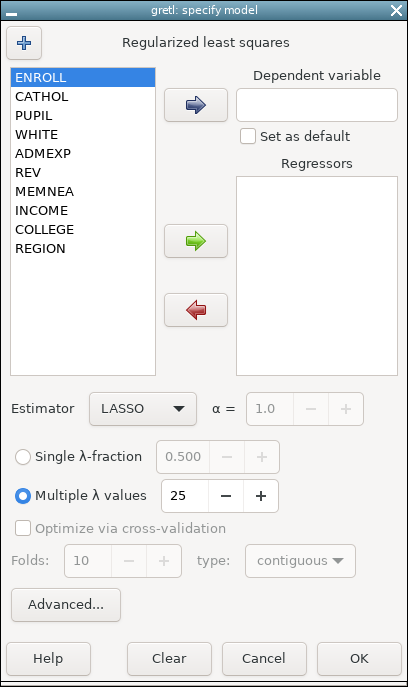
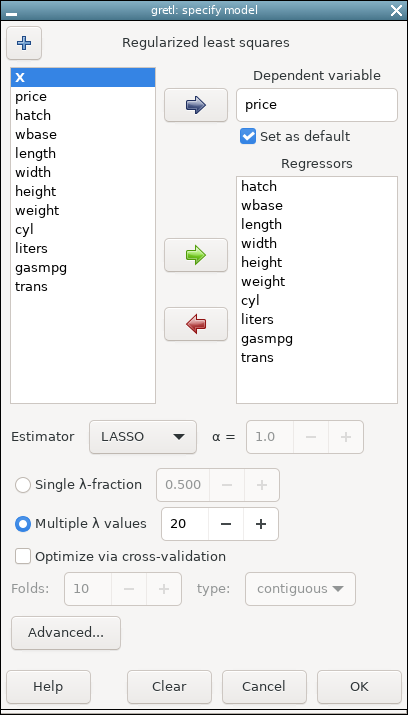
updates to regls doc

diff --git a/addons/regls/doc/regls.tex b/addons/regls/doc/regls.tex
@@ -654,60 +654,61 @@ validation runs.
 
 You can access \texttt{regls} in the gretl GUI via the menu item
 \textsf{Model/Other linear models/Regularized least squares}. This
-brings up the dialog box shown in Figure~\ref{fig:regls-gui}. Multiple
-$\lambda$ values and cross validation are supported as shown. Clicking
-the \textsf{Advanced} button gives access to most of the additional
-options discussed above (e.g.\ choice of algorithm, seed for
-randomized cross-validation folds). 
+brings up the dialog box shown on the left in
+Figure~\ref{fig:regls-combo}. Multiple $\lambda$ values and cross
+validation are supported as shown. Clicking the \textsf{Advanced}
+button gives access to most of the additional options discussed above
+(e.g.\ choice of algorithm, seed for randomized cross-validation
+folds).
+
+\vspace{1ex}
 
 \begin{figure}[htbp]
-  \begin{center}
-  \includegraphics[scale=0.5]{regls_gui}
-  \caption{\texttt{regls} dialog}
-  \label{fig:regls-gui}
-  \end{center}
+  \centering
+  \begin{tabular}{cc}
+    \includegraphics[scale=0.5]{regls_gui} &
+    \includegraphics[scale=0.5]{regls_output}
+  \end{tabular}
+  \caption{\texttt{regls} dialog and output window (with Graph button circled)}
+  \label{fig:regls-combo}
 \end{figure}
 
-The window that appears on clicking \textsf{OK} in the \texttt{regls}
-dialog (Figure~\ref{fig:regls-window}) shows printed output and offers
-several options via the toolbar buttons. Most of these are generic and
-should be self-explanatory. Here we'll draw attention to the button
-circled in red, with tooltip ``Graph''. This is active only when
-estimation has been performed with multiple $\lambda$ values. In that
-case it calls up a menu with two items: ``Criterion plot'' and
+The window that appears on clicking \textsf{OK} in the dialog box (on
+the right in Figure~\ref{fig:regls-combo}) shows printed output and
+offers several options via the toolbar buttons.  Most of these are
+generic and should be self-explanatory. Here we'll draw attention to
+the button circled in red, with tooltip ``Graph''. This is active only
+when estimation has been performed with multiple $\lambda$ values. In
+that case it calls up a menu with two items: ``Criterion plot'' and
 ``Coefficient paths''. Each of these explores an aspect of the
 estimates as the regularization constraint is relaxed. In the first
 case it's the optimality criterion (MSE if cross validation is
 performed, BIC otherwise); in the second it's the paths of individual
 coefficients.  Examples are shown in Figures~\ref{fig:mse-plot} and
-FIXME.
-% \ref{fig:coeff-plot}
+\ref{fig:coeff-plot}.
 
 \begin{figure}[htbp]
-  \begin{center}
-  \includegraphics[scale=0.5]{regls_output}
-  \caption{\texttt{regls} output window, graph button circled}
-  \label{fig:regls-window}
-  \end{center}
-\end{figure}
-
-\begin{figure}[htbp]
-  \begin{center}
   \includegraphics[scale=0.6]{mse_plot}
   \caption{MSE plot}
   \label{fig:mse-plot}
-  \end{center}
 \end{figure}
 
-\textit{Forecast button}: TO BE ADDED.
+\begin{figure}[htbp]
+  \centering
+  \includegraphics[scale=0.6]{coeff_plot}
+  \caption{Coefficient paths}
+  \label{fig:coeff-plot}
+\end{figure}
 
-% \begin{figure}[htbp]
-%   \begin{center}
-%   \includegraphics[scale=0.6]{coeff_plot}
-%   \caption{Coefficient paths}
-%   \label{fig:coeff-plot}
-%   \end{center}
-% \end{figure}
+To the right of the Graph button is a Forecast button (binoculars
+icon). If the sample was set prior to estimation so as to leave
+some trailing observations for testing, this can be used to produce
+out-of-sample forecast evaluation statistics, accompanied by an actual
+versus predicted plot. If no out-of-sample data are available you can
+still produce the evaluation statistics and plot for the within-sample
+fit. In each case the predicted values (which might be quite numerous)
+are not shown, but they can be retrieved via the bundle button in the
+window showing the statistics (FIXME Fig wanted).
 
 \clearpage
 
@@ -1371,7 +1372,7 @@ variants.\footnote{We truncated the plot on the left to focus on the
 
 \begin{figure}[htbp]
   \centering
-  \includegraphics[scale=0.9]{murder_kd3.pdf} 
+  \includegraphics[scale=0.9]{murder_kd3.pdf}
   \caption{Estimated densities for out of sample $R^2$, Dataset 1}
   \label{fig:dset1}
 \end{figure}
@@ -1390,7 +1391,7 @@ glmnet, regls ADMM & 21.6 & 0.942 \\
 regls CCD, regls ADMM & 8.4 & 0.996 \\
   \end{tabular}
   \caption{Paired-difference tests and correlations, out of sample $R^2$}
-  \label{tab:paired}  
+  \label{tab:paired}
 \end{center}
 \end{table}
 
@@ -1424,7 +1425,7 @@ maybe not large enough to be of practical importance.
 
 \begin{figure}[htbp]
   \centering
-  \includegraphics[scale=0.9]{wine_kd3.pdf} 
+  \includegraphics[scale=0.9]{wine_kd3.pdf}
   \caption{Estimated densities for out of sample $R^2$, Dataset 2}
   \label{fig:dset2}
 \end{figure}
